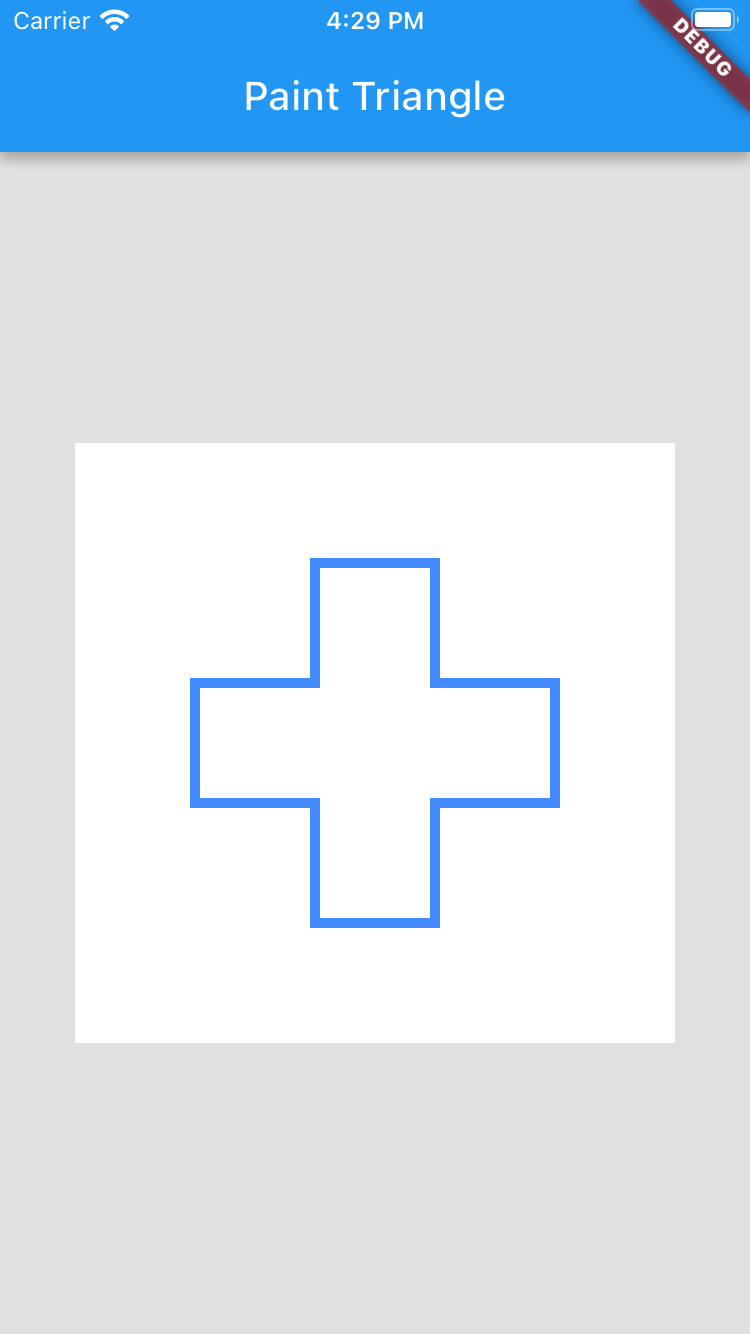
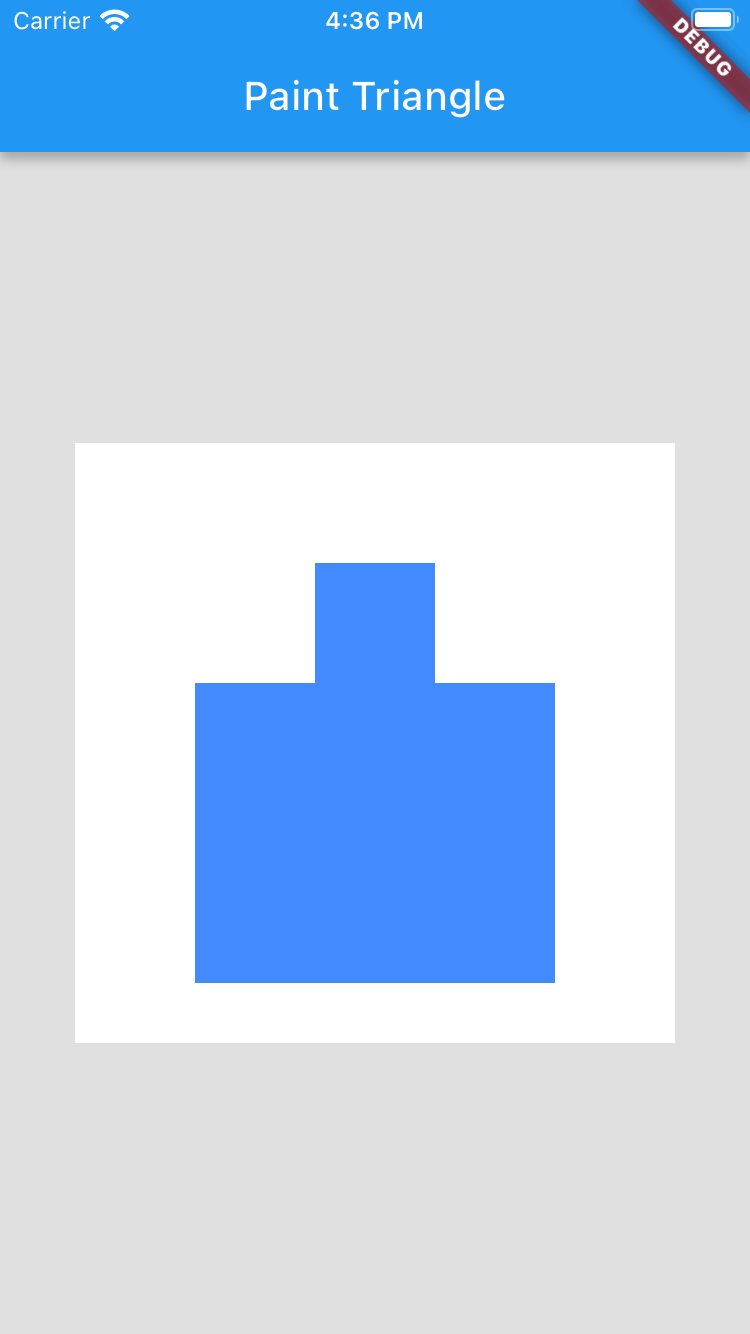
tshirt

Changed region(s): [[0.2453, 0.3996, 0.7667, 0.7376], [0.4293, 0.0, 0.552, 0.0307]]

diff --git a/lib/main.dart b/lib/main.dart
@@ -42,7 +42,7 @@ class MyCustomPainter extends CustomPainter{
   @override
   void paint(Canvas canvas, Size size) {
     // CREATING THE BRUSH
-    Paint brush=Paint()..strokeWidth=5..color=Colors.blueAccent..style = PaintingStyle.stroke;
+    Paint brush=Paint()..strokeWidth=5..color=Colors.blueAccent..style = PaintingStyle.fill;
 
     // CREATING THE PATH
     final shape=Path();
@@ -51,14 +51,12 @@ class MyCustomPainter extends CustomPainter{
     shape.relativeLineTo(size.width*0.2, 0);
     shape.relativeLineTo(0, size.height*0.2);
     shape.relativeLineTo(size.width*0.2, 0);
-    shape.relativeLineTo(0, size.height*0.2);
-    shape.relativeLineTo(-size.width*0.2, 0);
-    shape.relativeLineTo(0, size.height*0.2);
-    shape.relativeLineTo(-size.width*0.2, 0);
-    shape.relativeLineTo(0, -size.height*0.2);
-    shape.relativeLineTo(-size.width*0.2, 0);
-    shape.relativeLineTo(0, -size.height*0.2);
+    shape.relativeLineTo(0, size.height*0.5);
+    shape.relativeLineTo(-size.width*0.6,0);
+    shape.relativeLineTo(0, -size.height*0.5);
     shape.relativeLineTo(size.width*0.2, 0);
+
+
 
 
      shape.close();

diff --git a/README.md b/README.md
@@ -14,13 +14,13 @@ A few resources to get you started if this is your first Flutter project:
 
 # Screenshot 1
 
-<img src="https://github.com/Mirzaazmath/flutter_custompaint_overview/blob/plus/assets/Screenshot1.png" height="400">
+<img src="https://github.com/Mirzaazmath/flutter_custompaint_overview/blob/tshirt/assets/Screenshot1.png" height="400">
 
 
 
 # Screenshot 2
 
-<img src="https://github.com/Mirzaazmath/flutter_custompaint_overview/blob/plus/assets/Screenshot2.png" height="400">
+<img src="https://github.com/Mirzaazmath/flutter_custompaint_overview/blob/tshirt/assets/Screenshot2.png" height="400">
 
 - [Lab: Write your first Flutter app](https://docs.flutter.dev/get-started/codelab)
 - [Cookbook: Useful Flutter samples](https://docs.flutter.dev/cookbook)
